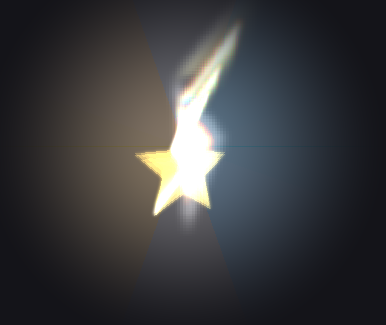
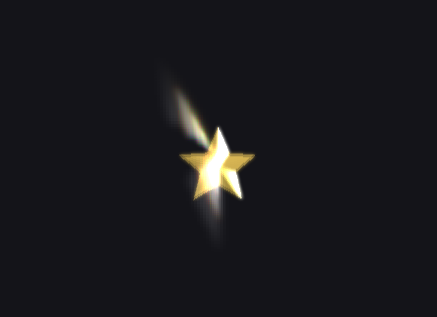
lens flare tuning and some bug fix.

diff --git a/cpp-folders/src/hello-render-target/hello_glowing_star.cpp b/cpp-folders/src/hello-render-target/hello_glowing_star.cpp
@@ -35,10 +35,10 @@
 
 #include "shs_renderer.hpp"
 
-#define WINDOW_WIDTH      640
-#define WINDOW_HEIGHT     420
-#define CANVAS_WIDTH      640
-#define CANVAS_HEIGHT     420
+#define WINDOW_WIDTH      440
+#define WINDOW_HEIGHT     320
+#define CANVAS_WIDTH      440
+#define CANVAS_HEIGHT     320
 #define MOUSE_SENSITIVITY 0.2f
 #define THREAD_COUNT      20
 #define TILE_SIZE_X       40
@@ -76,8 +76,8 @@ static float      DOF_MAXBLUR      = 0.80f;
 // BLOOM / GLOW CONFIG (SPEC-DRIVEN)
 // ===============================
 static const bool  ENABLE_BLOOM         = true;
-static const float SPEC_GLOW_THRESHOLD  = 0.009f;  // 0..1, lower = more glow
-static const float SPEC_GLOW_INTENSITY  = 7.25f;   // multiplier
+static const float SPEC_GLOW_THRESHOLD  = 0.079f;  // 0..1, lower = more glow
+static const float SPEC_GLOW_INTENSITY  = 3.25f;   // multiplier
 static const int   BLOOM_BLUR_ITERS     = 3;       // keep small for CPU
 
 // ===============================
@@ -85,9 +85,9 @@ static const int   BLOOM_BLUR_ITERS     = 3;       // keep small for CPU
 // ===============================
 static const bool  ENABLE_FLARE       = true;
 static const int   FLARE_GHOSTS       = 3;
-static const float FLARE_INTENSITY    = 0.85f;
-static const float FLARE_HALO_INTENS  = 0.55f;
-static const float FLARE_CHROMA_SHIFT = 1.5f;
+static const float FLARE_INTENSITY    = 0.55f;
+static const float FLARE_HALO_INTENS  = 0.35f;
+static const float FLARE_CHROMA_SHIFT = 0.8f;
 
 // ==========================================
 // SMALL HELPERS
@@ -826,7 +826,7 @@ static void pseudo_lens_flare_pass(
     const float cy = 0.5f * float(H);
 
     // Ghost scales (tuned for a single bright star)
-    float ghost_scales[FLARE_GHOSTS] = { 0.55f, 0.85f, 1.25f, 1.75f };
+    float ghost_scales[FLARE_GHOSTS] = { 0.55f, 0.85f, 1.25f};
 
     for (int ty = 0; ty < rows; ty++) {
         for (int tx = 0; tx < cols; tx++) {

diff --git a/cpp-folders/src/hello-render-target/hello_multi_pass.cpp b/cpp-folders/src/hello-render-target/hello_multi_pass.cpp
@@ -36,10 +36,10 @@
 
 #include "shs_renderer.hpp"
 
-#define WINDOW_WIDTH      840
-#define WINDOW_HEIGHT     720
-#define CANVAS_WIDTH      840
-#define CANVAS_HEIGHT     720
+#define WINDOW_WIDTH      540
+#define WINDOW_HEIGHT     420
+#define CANVAS_WIDTH      540
+#define CANVAS_HEIGHT     420
 #define MOUSE_SENSITIVITY 0.2f
 #define THREAD_COUNT      20
 #define TILE_SIZE_X       40
@@ -58,7 +58,7 @@
 
 // Faster motion
 #define WOBBLE_SPEED_MULT 0.65f
-#define ROTATE_SPEED_MULT 0.4f
+#define ROTATE_SPEED_MULT 1.4f
 
 // ===============================
 // JOHN CHAPMAN STYLE MOTION BLUR CONFIG

diff --git a/README.md b/README.md
@@ -176,7 +176,7 @@
 <p><img width="511" height="345" src="https://raw.githubusercontent.com/sharavsambuu/leisure-software-renderer/master/images/per-object-motion-blur-monkeys.png"></p>
 <p><img width="711" height="574" src="https://raw.githubusercontent.com/sharavsambuu/leisure-software-renderer/master/images/multi-pass-per-object-motion-blur.png"></p>
 <p><img width="836" height="719" src="https://raw.githubusercontent.com/sharavsambuu/leisure-software-renderer/master/images/multi-pass-motion-blur-dof-fxaa.png"></p>
-<p><img width="386" height="325" src="https://raw.githubusercontent.com/sharavsambuu/leisure-software-renderer/master/images/pseudo-lens-flare.png"></p>
+<p><img width="437" height="317" src="https://raw.githubusercontent.com/sharavsambuu/leisure-software-renderer/master/images/pseudo-lens-flare.png"></p>
 <p><img width="640" height="360" src="https://raw.githubusercontent.com/sharavsambuu/leisure-software-renderer/master/images/mongolian-flag.png"></p>
 <p><img width="320" height="320" src="https://raw.githubusercontent.com/sharavsambuu/leisure-software-renderer/master/images/fbm.png"></p>
 
